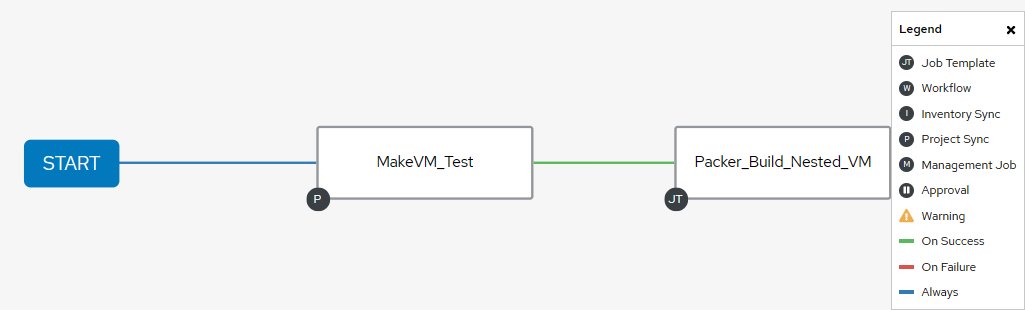
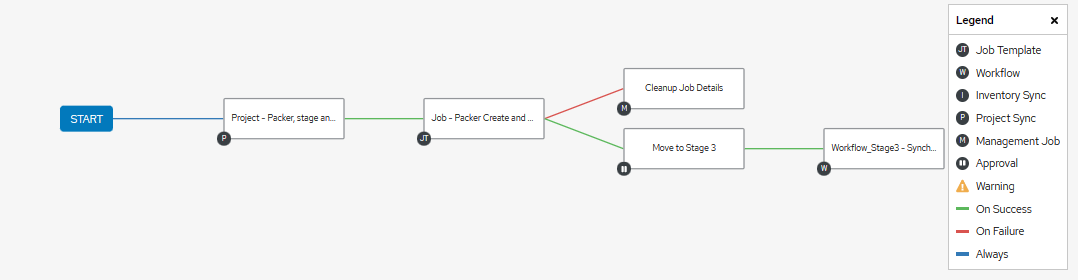
updated readme

diff --git a/README.md b/README.md
@@ -14,7 +14,7 @@ Goals:
     
     [Pakr Vagr Libvirt](https://github.com/bvaughn123/Libvirt-Vagrant-Packer)  
     
-    > Synch proj., exec play, request for approval -> condition based action.
+    > Synch proj., exec play, request for approval -> condition based action.  
 
 ![Setup VM Workflow](.Resources/SetupVmWorkflow.png)  
 
@@ -30,75 +30,86 @@ Goals:
 4. **Create Dynamic vagrantfile*** with selection conditional for vagrant box,   
   enabling vagrant up, down, halt, and stuffs.  
 
-  [Template Readme](ansible/templates/config.yaml.example.md)
-- [ ] Todo: learn stuffs, and fix the vagrant module thingy...
+  [Template Readme](ansible/templates/config.yaml.example.md)  
+
+- [ ] Todo: learn stuffs, and fix the vagrant module thingy...   
 
 5. **Build Nested vm using libvirt and vagrant box**  
-- [ ] Todo: Add template for provisioners afterline
 
-- [ ] Todo: Implement the encrypted source_creds, creds thing in AWX.
+- [ ] Todo: Add template or additonal tasks with appropriate to dynamically launch  
+      additional tasks / playbooks with vagrant provisioner.  
+    - Created marker for afterline task in vagrant file.  
 
+- [ ] Todo: Implement the encrypted source_creds, creds thing in AWX.  
 
-## AWX Jobs
+## AWX Jobs  
 
-Using AWX Workflow templates to synch repositories, launch jobs, and kick off Next Stage Workflows.
+Using AWX Workflow templates to synch repositories, launch jobs, and kick off Next Stage Workflows.  
 
-Personal reasons I like it, is it helps provide visual context.
+Personal reasons I like AWX is the organic synchronization of projects, creds storage, and others, but most  
+importantly - visual context.  
 
-(![AWX Jobs](.Resources/templates.png))
+![AWX Jobs](.Resources/templates.png)
 
-## Packer build
+## Packer build  
 
-Packer Build w/ post vagrant provisioner to build box 
+Packer Build w/ post vagrant provisioner to build box   
 
-Moving these to seperate part of workflow.
+Moving these to seperate workflow.  
 
-- [x] Need to create a task to launch the packer build of the base vm.  
-    `Going to move externally to segrate workflow tasks` [Make vm test thingys](https://github.com/bvaughn123/mk_vm_test_thingys) 
-- [x] Need to come up with logic for choosing the pkr.hcl file...
-    `Going to move externally to segrate workflow tasks` [Make vm test thingys](https://github.com/bvaughn123/mk_vm_test_thingys) 
-- [x] Need to ensure task for vagrant install libvirt plugin is done
+- [x] Need to create a task to launch the packer build of the base vm.   
+    `Going to move externally to segrate workflow tasks` [Make vm test thingys](https://github.com/bvaughn123/mk_vm_test_thingys)  
+- [x] Need to come up with logic for choosing the pkr.hcl file...  
+    `Going to move externally to segrate workflow tasks` [Make vm test thingys](https://github.com/bvaughn123/mk_vm_test_thingys)  
+- [x] Need to ensure task for vagrant install libvirt plugin is done  
 
-## Dynamic Vagrantfile
+## Dynamic Vagrantfile  
 
-Re-use and "agnosticize" things.
+Re-use and "agnosticize" things.  
 
-- [x] template for vars to be imported from file for vagrantfile.
-- [x] Create a j2 template to generate vars for the vagrantfile
-    > config.yaml  
-- [x] Box Selection: config.vm.box = "file://boxes/libvirt-{{box_name}}" based on selection in config.yaml
+- [x] template for vars to be imported from file for vagrantfile.  
+- [x] Create a j2 template to generate vars for the vagrantfile  
+    > config.yaml   
+- [x] Box Selection: config.vm.box = "file://boxes/libvirt-{{box_name}}" based on selection in config.yaml  
 
+Below is the applicable portion of the "Agnosticized" vagrantfile.
 
-    ```
+    ```ruby
         # encoding: utf-8
         # -*- mode: ruby -*-
         # vi: set ft=ruby :
 
         require 'yaml'
 
-        # Load Dynamic Vars from config.ymaml generated file
+        # Load Dynamic Vars from config.yaml generated file
         current_dir    = File.dirname(File.expand_path(__FILE__))
         configs        = YAML.load_file("#{current_dir}/config.yaml")
         vagrant_config = configs['configs'][configs['configs']['select']]
-
+        base_name      = vagrant_config['base_box']
 
         Vagrant.configure('2') do |config|
-        base_name = vagrant_config['base_box']
           config.vm.box = "file://boxes/"+box_name
-            
+          #....other variables below.....    
     ```
 
-- [ ] Do I create a task to Halt box, package, unzip, and perform a qemu-img -c to convert to ovf?
+- [ ] Do I create a task to Halt box, package, unzip, and perform a qemu-img -c to convert to ovf?  
     **May solve the a backlog task of ovf creation, but will require a qemu-img convert task on the box.img file in the box package**     
 
-### Template Creation
+### Agnostic Vagrantfile and Templated Vars for nested vm creation  
 
-Create the Vars to be imported into the "agnosticized" vagrant file.  
-> [config.yaml.j2 ](ansible\templates\config.yaml.j2)
+1. Declare values for the vars to be imported into the "agnosticized" vagrant.   
+   These are defined in two places, but are nested. Might not sense, but thoughts that it will  
+   help potential playbook -> role conversion.  
 
-- [x] vars/vagrant_vm_vars.yaml
-      ```yaml
-        ---
+2. Use a template to create the mappings and yaml.  
+
+3.  Finally, the Select variable, will be the conditional selection criteria for what keys are parsed  
+    by the Vagrantfile when conducting actions that generate or interact with vms.  
+
+> [config.yaml.j2 ](ansible\templates\config.yaml.j2)  
+
+      ```yaml  
+        ---  
 
         # Default VM Selection
         vm_selection: "test1" 
@@ -109,47 +120,40 @@ Create the Vars to be imported into the "agnosticized" vagrant file.
           - ["rocky8","rocky8.box","2","2048","default_driver",]
           #- ["test3","base_box","cpu","memory","default_driver",]
       ```
-
-### config.yaml example
+An example output of the template creation for the config.yaml file below.  
 
 ```yaml
 ---
 configs:
-  select: 'test1'
-
-    test1:
+  select: "{{ VM_SELECTION }}"
+    
+    centos7:
       base_box: "centos7.box"
       cpu_int: 2
       memory_int: 2048
       default_driver_string: "qemu"
-    
-    test2:
-      mode: deploy
+
+    rocky8:
       base_box: "rocky8.box"
       cpu_int: 2
       memory_int: 2048
       default_driver_string: "kvm"
-      
-```
+```  
 
-### Updating the Default Vagrant Password
-
-Multiple options exist.  As this PoC is using the AWX workflow to execute; will default to utilize
-protected credentials on the AWX Controller.
-
-![AWX New Credential Type](.Resources/new_credential_type.png)
-[AWX Documentation](https://docs.ansible.com/ansible-tower/latest/html/userguide/credential_types.htmlhttps://docs.ansible.com/ansible-tower/latest/html/userguide/credential_types.html)
+![Vagrant AWX Workflow](.Resources/vagrant.png)  
 
 
-### Notes 31July
+### Updating the Default Vagrant Password  
 
-- [ ] Vagrant Custom Plugin not working, need to troubleshoot and understand the subprocess.check_call function mo betta
+Multiple options exist.  As this PoC is using the AWX workflow to execute; will default to utilize  
+protected credentials on the AWX Controller.  
 
-- [ ] Possible issue with the permission on the vagrant plugin file, need to ensure workflow task that installs libvirt is done as `"{{ REMOTE_USER }}"`.  Temp fix is `vagrant plugin expunge --reinstall`
+![AWX New Credential Type](.Resources/new_credential_type.png)  
+[AWX Documentation](https://docs.ansible.com/ansible-tower/latest/html/userguide/credential_types.htmlhttps://docs.ansible.com/ansible-tower/latest/html/userguide/credential_types.html)  
 
-- [ ] Going to attempt change via encrypted awx and `vagrant ssh -c "echo {{pass}} | passwd root --stdin`  Need to see if this will cause log entry, or if need to export to env Var and ref that.
 
-- [ ] Need to check become_user on tasks to ensure permissions are correct.
+### Notes 
 
-- [ ] Vagrantfile/j2 keys and vars.
+- [ ] Vagrant Custom Plugin not working, need to troubleshoot and understand the subprocess.check_call function mo betta  
+- [ ] Going to attempt change via encrypted awx and `vagrant ssh -c "echo {{pass}} | passwd root --stdin`  Need to see if this will cause log entry, or if need to export to env Var and ref that.  
 
